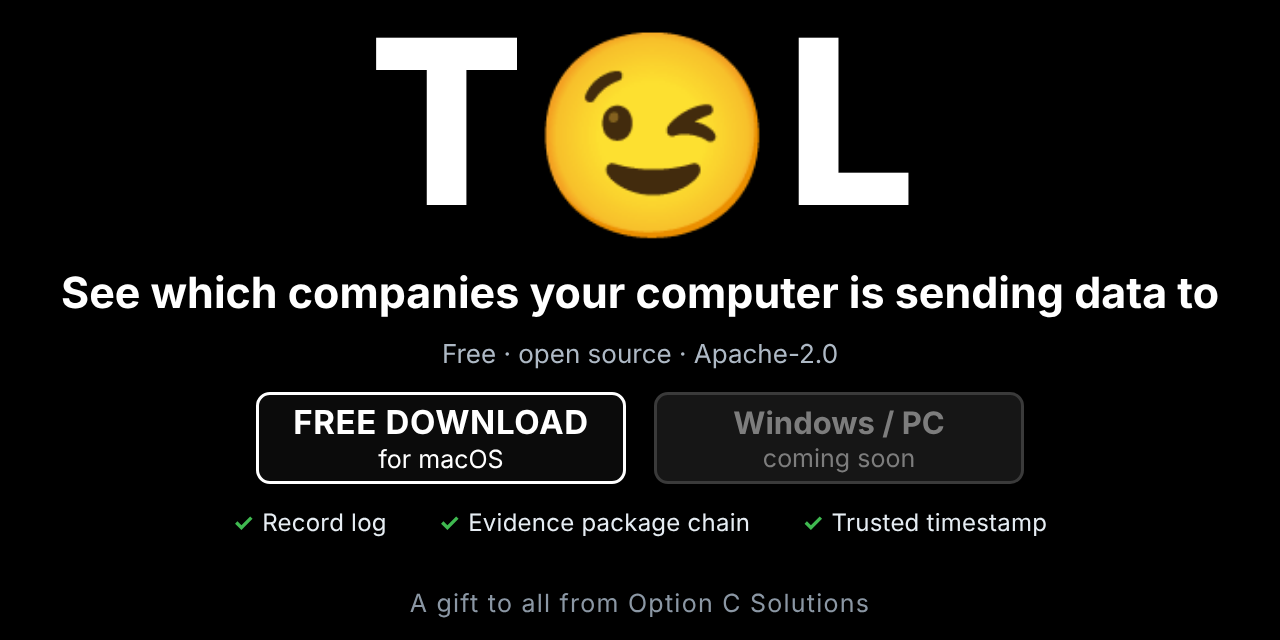
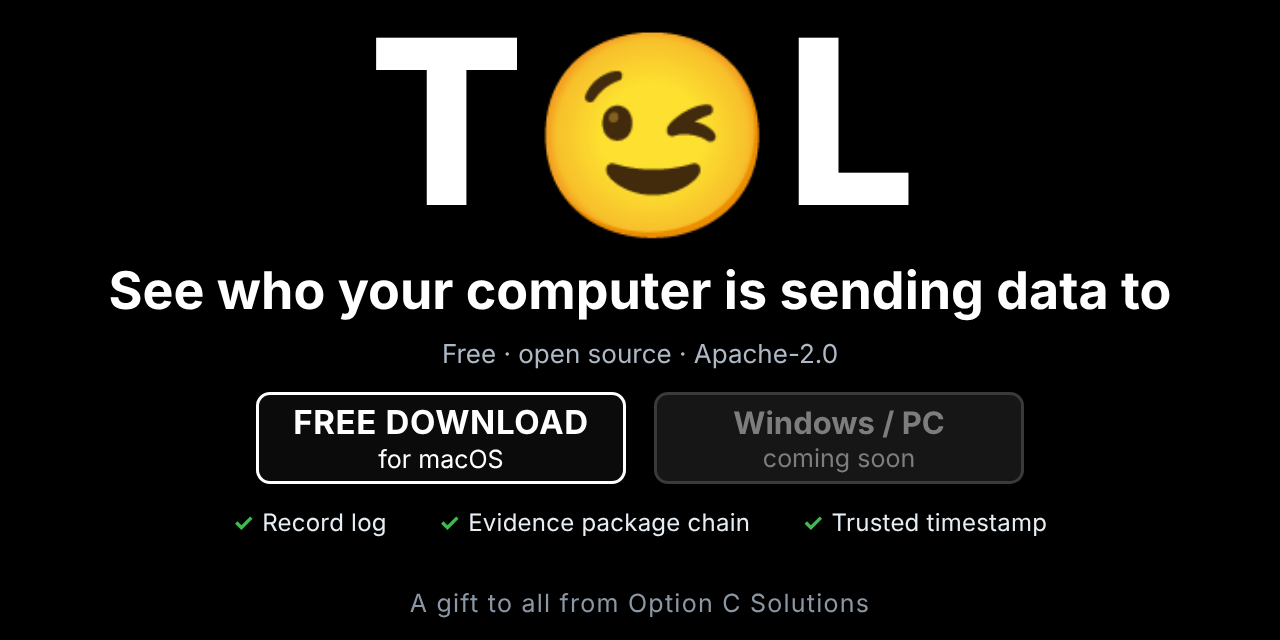
Say "who", not "which companies": the other party may be an individual or unidentified
README, project page, install guide, package description, issue template and banner now say "who your computer is sending data to". Adds a line to "What it does not do" that TOL does not always know who is on the other end.

Claude-Session: https://claude.ai/code/session_01Tohd3QB7n9PzpBWQVxA6Z4

Changed region(s): [[0.0312, 0.4062, 0.9688, 0.5]]

diff --git a/site/index.html b/site/index.html
@@ -75,7 +75,7 @@ footer p { max-width: 70ch; }
 <main>
 <header>
   <p class="tag">TOL · transparent, neutral, local</p>
-  <h1>See which companies your computer is sending data to.</h1>
+  <h1>See who your computer is sending data to.</h1>
   <p class="lede">TOL is a small program that watches a computer's network connections and reports them in plain language. It does not block anything, and it never reads what is inside the traffic.</p>
   <ul class="status">
     <li>Version 0.4.7</li>
@@ -87,7 +87,7 @@ footer p { max-width: 70ch; }
 
 <section>
   <h2>What it shows</h2>
-  <p>For every outside connection, TOL lists who the data is going to, which program on the computer sent it, how much, and when it was last seen. The first time a program contacts a new company, TOL raises a notice.</p>
+  <p>For every outside connection, TOL lists who the data is going to, which program on the computer sent it, how much, and when it was last seen. The first time a program contacts a new destination, TOL raises a notice.</p>
   <div class="mock" role="img" aria-label="Example of the TOL dashboard with sample values: three summary tiles, one alert and a table of destinations.">
     <div class="mock-head"><strong>TOL: who your device is sending data to</strong><span>Live · watching for 1m</span></div>
     <div class="tiles">

diff --git a/site/standalone.html b/site/standalone.html
@@ -84,7 +84,7 @@ footer p { max-width: 70ch; }
 <main>
 <header>
   <p class="tag">TOL · transparent, neutral, local</p>
-  <h1>See which companies your computer is sending data to.</h1>
+  <h1>See who your computer is sending data to.</h1>
   <p class="lede">TOL is a small program that watches a computer's network connections and reports them in plain language. It does not block anything, and it never reads what is inside the traffic.</p>
   <ul class="status">
     <li>Version 0.4.7</li>
@@ -96,7 +96,7 @@ footer p { max-width: 70ch; }
 
 <section>
   <h2>What it shows</h2>
-  <p>For every outside connection, TOL lists who the data is going to, which program on the computer sent it, how much, and when it was last seen. The first time a program contacts a new company, TOL raises a notice.</p>
+  <p>For every outside connection, TOL lists who the data is going to, which program on the computer sent it, how much, and when it was last seen. The first time a program contacts a new destination, TOL raises a notice.</p>
   <div class="mock" role="img" aria-label="Example of the TOL dashboard with sample values: three summary tiles, one alert and a table of destinations.">
     <div class="mock-head"><strong>TOL: who your device is sending data to</strong><span>Live · watching for 1m</span></div>
     <div class="tiles">

diff --git a/scripts/make_mac_pdf.py b/scripts/make_mac_pdf.py
@@ -51,7 +51,7 @@ bullets = lambda items: [Paragraph(t, BUL, bulletText="•") for t in items]
 
 story = [
     p("TOL for Mac", H1),
-    p("Version 0.4.6. A transparent, neutral window that shows which companies a Mac is sending data to. "
+    p("Version 0.4.6. A transparent, neutral window that shows who a Mac is sending data to. "
       "Below are the features that were run on a real Mac and worked. Nothing here is listed unless it was run.", SUB),
 
     p("Features that worked", H2),

diff --git a/scripts/make_capabilities_pdf.py b/scripts/make_capabilities_pdf.py
@@ -56,7 +56,7 @@ def footer(canvas, doc):
 
 story = [
     p("TOL: what it can do today", H1),
-    p("Version 0.4.6 for macOS and Windows. A transparent, neutral window that shows which companies a computer is "
+    p("Version 0.4.6 for macOS and Windows. A transparent, neutral window that shows who a computer is "
       "sending data to. It only watches. It does not block, change or read anything.", SUB),
 
     p("What it does", H2),

diff --git a/README.md b/README.md
@@ -1,6 +1,6 @@
 # TOL
 
-**See which companies your computer is sending data to.** Free, open source and early.
+**See who your computer is sending data to.** Free, open source and early.
 
 TOL watches your computer's network connections and shows, in plain language, where data is going: which app, which destination, how much.
 It can look up who holds an address, and it can save a record with an independent timestamp that anyone can check.
@@ -25,7 +25,8 @@ Get the files from the [Releases page](https://github.com/rickwatson5166/TOL-pub
 - Optional Firefox add-on that records whether your browser sent the Global Privacy Control signal. Observer only.
 
 ## What it does not do
-- It does not block anything, and it cannot tell you whether a company's use of your data is good or bad.
+- It does not block anything, and it cannot tell you whether anyone's use of your data is good or bad.
+- It does not always know who is on the other end. It may be a company, a cloud or network provider, an individual's server, or something unidentified. Each label says how sure TOL is.
 - It does not read the contents of your traffic. There is no packet capture.
 - It can miss very short connections. The registry holder of an address is often a cloud provider, not the service you were using.
 - A record is not legal proof by itself. Have a qualified person review it before relying on it.

diff --git a/docs/INSTALL.md b/docs/INSTALL.md
@@ -28,7 +28,7 @@ Each file's SHA-256 fingerprint is listed on the release page. On a Mac: `shasum
 
 ## What TOL does on your computer
 
-- Shows which companies your computer is talking to. It only watches; it blocks and changes nothing.
+- Shows who your computer is talking to. It only watches; it blocks and changes nothing.
 - Sends nothing out unless you ask. Two optional buttons send something: **Identify** sends one public address to
   a public registry (rdap.org), and **Add trusted timestamp** sends a 32-byte fingerprint to a timestamp service.
 - Keeps everything it saves in a folder named `.tol` in your home folder. Delete the folder to remove it all.

diff --git a/.github/ISSUE_TEMPLATE/wrong_label.md b/.github/ISSUE_TEMPLATE/wrong_label.md
@@ -1,6 +1,6 @@
 ---
 name: A name, label or claim is wrong
-about: TOL names the wrong company, or a sentence overreaches
+about: TOL names the wrong owner, or a sentence overreaches
 ---
 **What does TOL say?** (the destination, the label, or the exact sentence in the docs)
 
